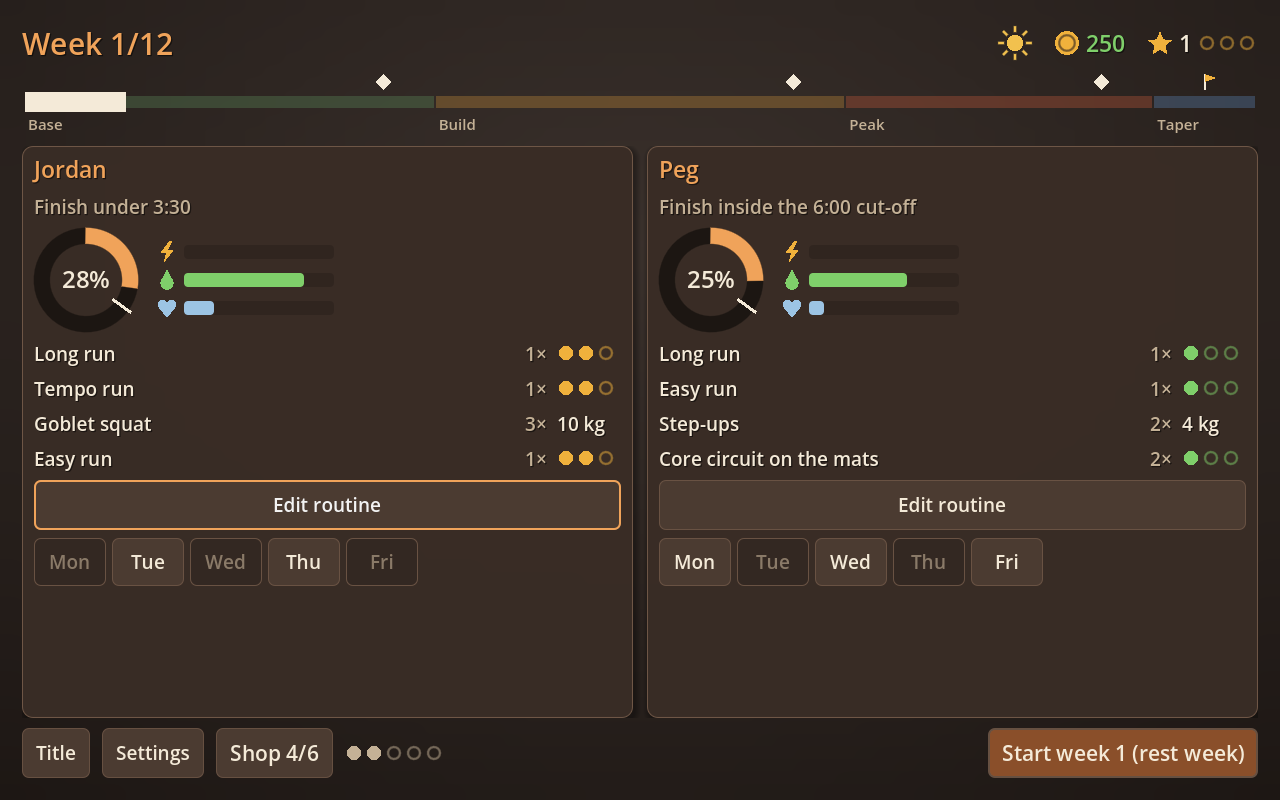
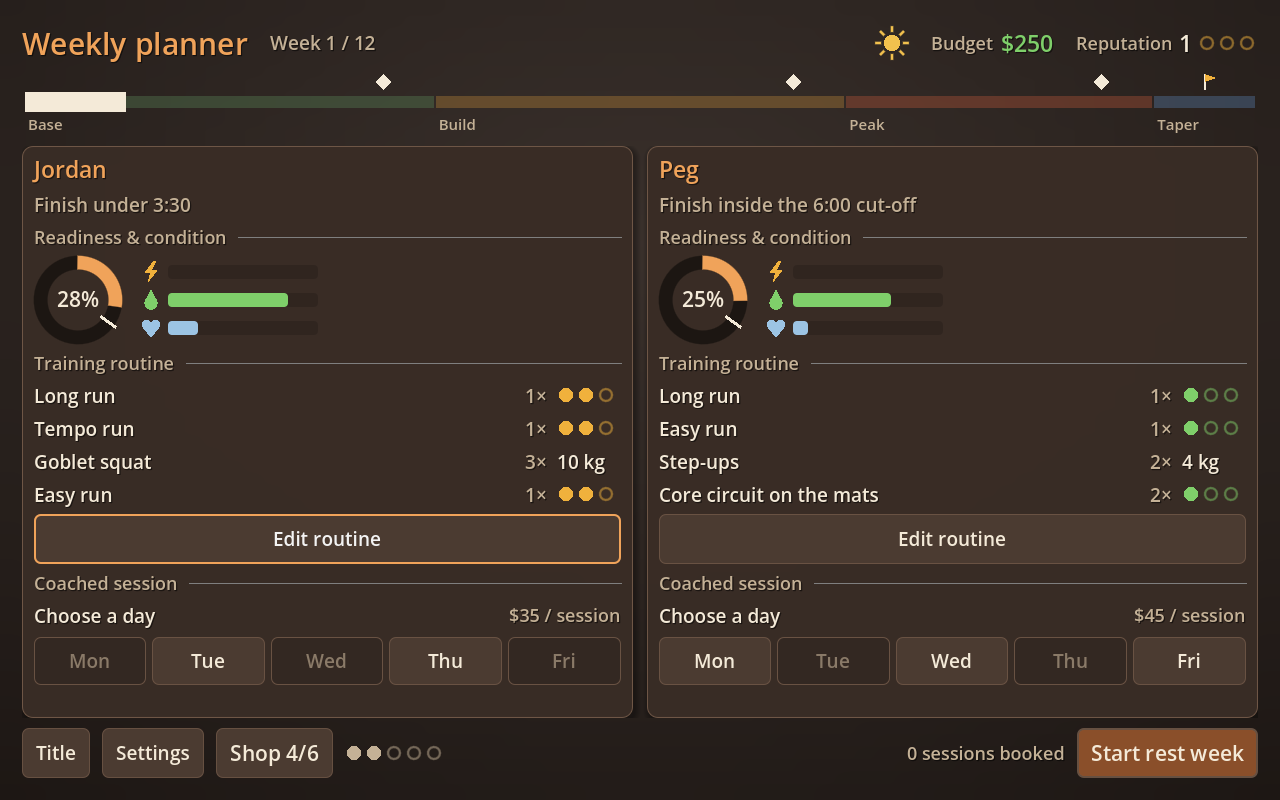
Planning sessions and buying kit feel clearer and consistent (ui)

diff --git a/docs/DECISIONS.md b/docs/DECISIONS.md
@@ -228,7 +228,27 @@ rates: review after playtesting.
 - Advice strings in `lines.json` and the wrap-up lessons were cut to one
   short clause each, since they now appear on several screens.
 
-## Not yet checked
+## Planning interface refinement (29 October 2026)
+
+- The planner groups each client into readiness and condition, training
+  routine, and coached session. Booking shows the selected day with a tick,
+  the fee, and a total beside Start week. Unavailable days explain why in
+  their tooltip. Booking rules and fees are unchanged.
+- The planner and catalogue share labelled Budget and Reputation values
+  and quiet section dividers. Catalogue prices sit in a consistent action
+  column; a blocked order explains its requirement below the button.
+  Owned and pending kit use that same column for their delivery status.
+- The catalogue's starting-kit list is available on the Kit slots tooltip.
+  Delivery timing remains visible above the list. Later-season items keep
+  normal text contrast, with an explicit Coming later label.
+- Verification: all 50 scripts load; the headless editor/import check passes.
+  The windowed capture tour runs via `Run.ps1` at 1280×800. Planner, booked
+  planner, race-week planner and catalogue captures are inspected for layout.
+  The tour reports resource/ObjectDB cleanup warnings when it exits.
+  Browser, gamepad, alternate interface scales and human play feel are not
+  covered by this pass.
+
+## Remaining playtest checks
 
 - Gamepad play, the web export in a browser, and long sessions by a real
   player.
